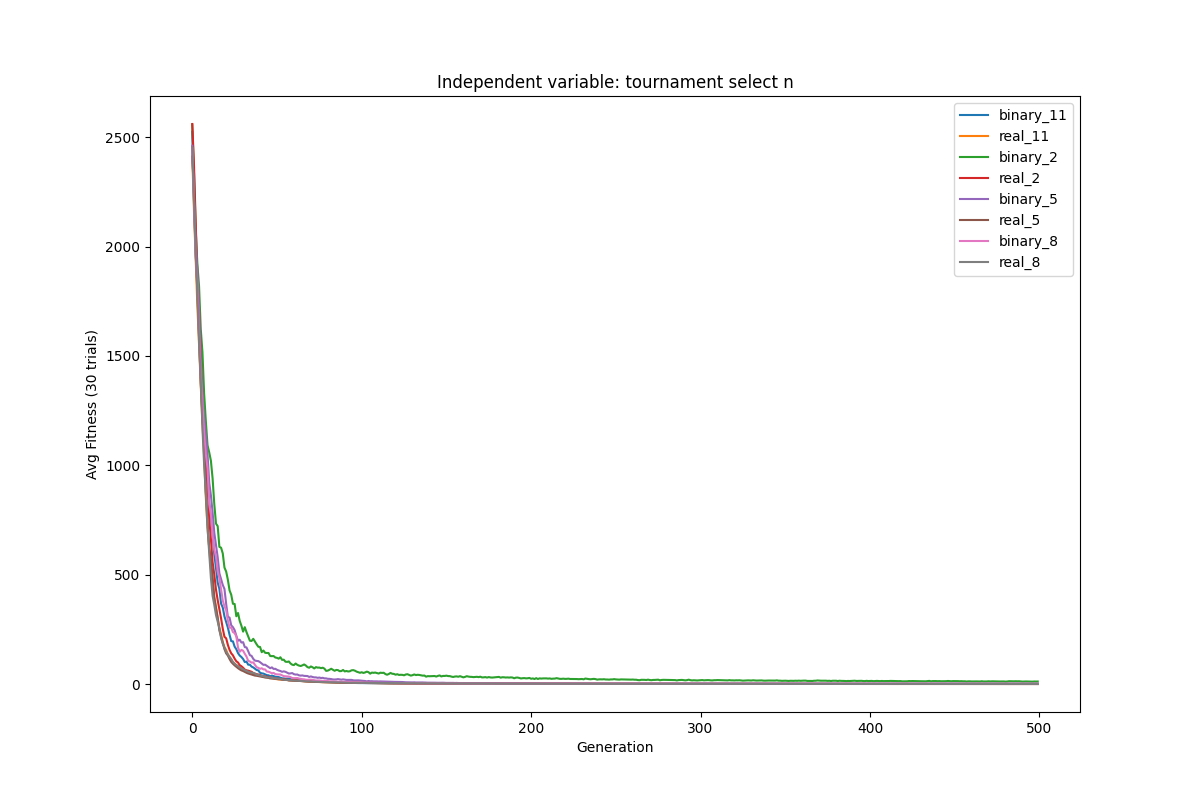
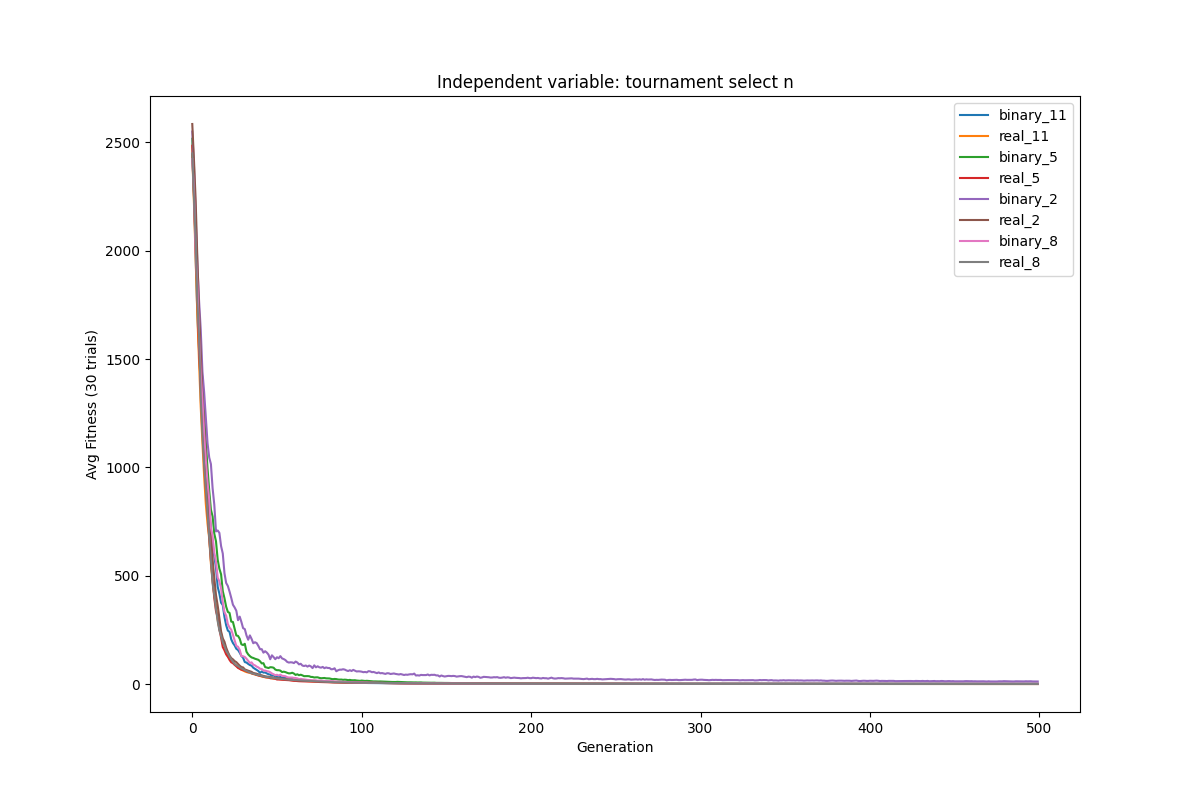
v4.0.1

diff --git a/plot/plot.py b/plot/plot.py
@@ -3,8 +3,8 @@ import pandas as pd
 import matplotlib.pyplot as plt
 
 folder_path = 'data'
-output_file = 'show/crossover_point.png'
-filename_pattern = 'avgfitness_n_point'
+output_file = 'show/tournament.png'
+filename_pattern = 'avgfitness_p_select'
 csv_files = [f for f in os.listdir(folder_path) if f.startswith(filename_pattern)]
 
 plt.figure(figsize=(12, 8))
@@ -17,9 +17,9 @@ for file in csv_files:
     var = int(file.split('_')[-1].split('.')[0])
 
     plt.plot(data['Binary'], label=f'binary_{var}')
-    # plt.plot(data['Real'], label=f'real_{var}')
+    plt.plot(data['Real'], label=f'real_{var}')
 
-plt.title('Independent variable: n-point crossover')
+plt.title('Independent variable: tournament select n')
 plt.xlabel('Generation')
 plt.ylabel('Avg Fitness (30 trials)')
 plt.legend()
